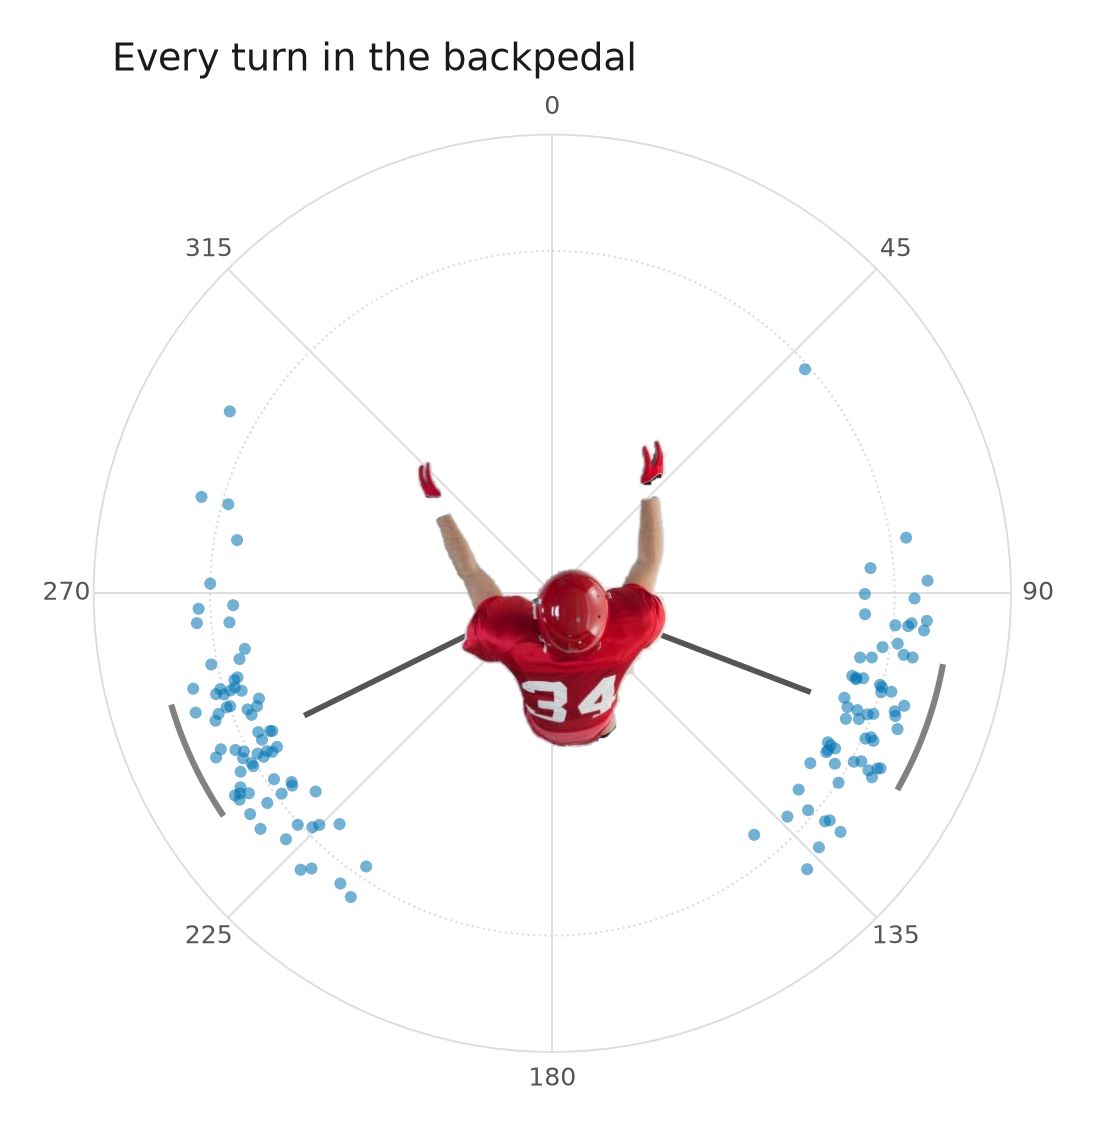
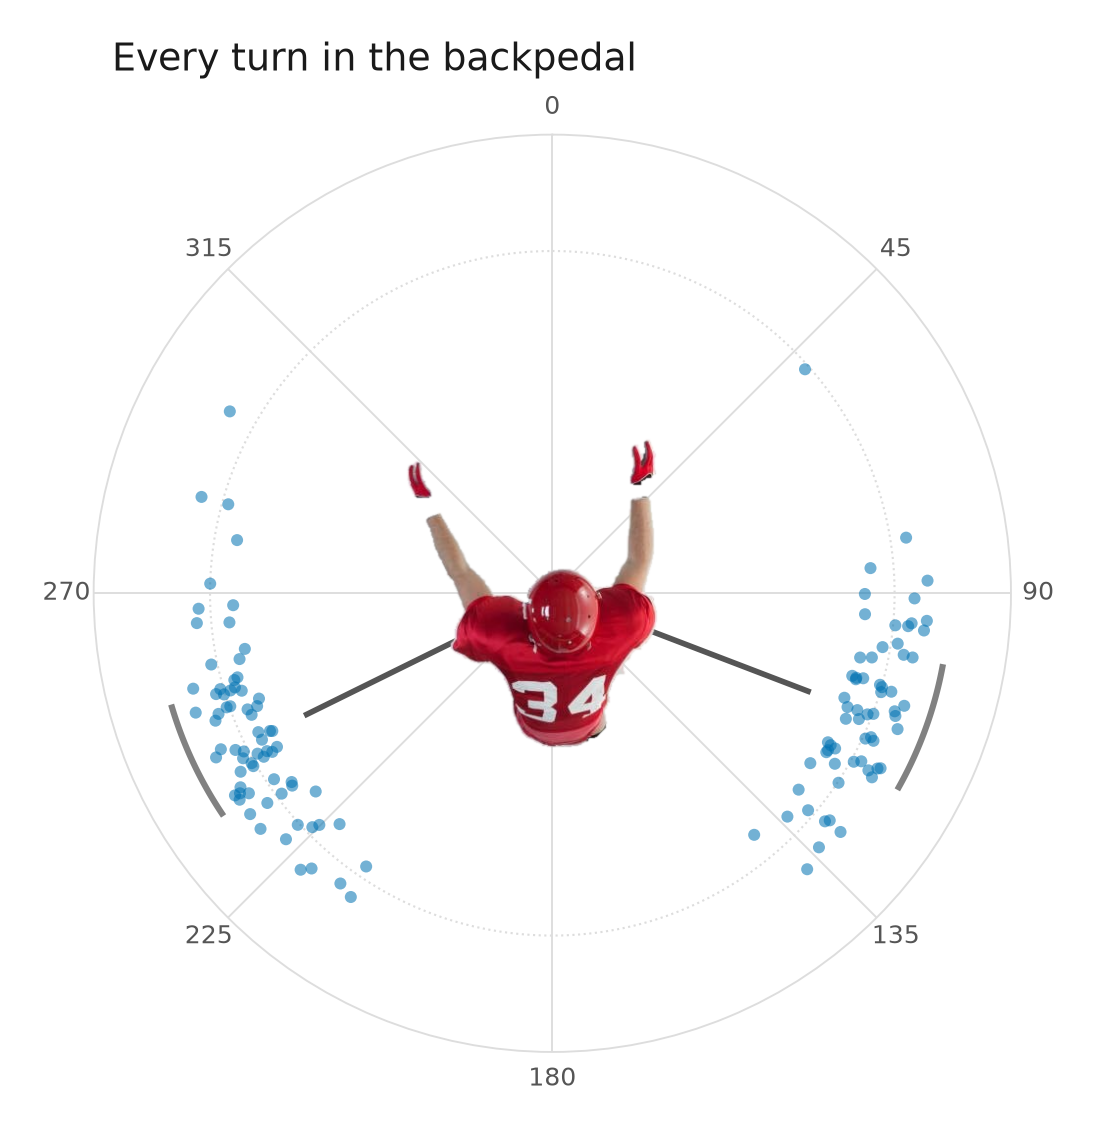
Figure 21 — the marker ten more pixels left (total -20 px) (D221)
Amends D220. Conor, 2026-11-24 17:46: "10 more pixels" — another 10 px
left on top of D220's 10, so BACKPEDAL_POLAR_MARKER_OFFSET_PX_X = -20.0.
The constant holds the total, not an increment; placement logic untouched.
Conversion through the same 917.32 px square axes box:
axes_fraction_x = -0.0218026, radial_x = -0.0584311.

Measured off the saved PNG against the f830ac0 zero-offset baseline:
centroid x 576.431 -> 556.438, dx = -19.994 px, dy = +0.007 px; bbox left
edge 428 -> 408. Canvas still 1096 x 1134, so the tight crop did not move.
Left corners now 0.6323 radial units (+0.05 margin = 0.6823) against
min(radius_drawn) = 0.9017: 0.2194 radial units of air — no clipping.

Tests: the paired saved-PNG shift test is retargeted to |dx + 20| < 1 px
and pins the constant to -20.0 (so it cannot pass against a silently
changed constant); the sidecar test pins px_x = -20.0, measured shift and
left-corner reach. fig21 tests 27/27; full suite 758 collected, 757
passed, 1 skipped, 0 failed.

CSV byte-identical (f186ebbc...); strings, manifest and every other
figure's PNG unchanged; two renders byte-identical (PNG 3d244edb...).

Changed region(s): [[0.3723, 0.3704, 0.6204, 0.679]]

diff --git a/tests/test_backpedal_polar_figure.py b/tests/test_backpedal_polar_figure.py
@@ -350,8 +350,9 @@ def test_the_overhead_player_is_the_supplied_image_at_the_centre(polar, cfg):
     origin, drawn above the lobe spokes and below the turns, with its own
     aspect ratio preserved — so the subject is not stretched into the circle.
     D220 then moved him 10 saved px left on Conor's instruction (2026-11-24
-    16:25), so the centre is deliberately off the exact origin; the test now
-    asserts the offset he should have instead of a centred glyph.
+    16:25) and D221 another 10 (17:46, "10 more pixels"), so the centre is
+    deliberately 20 px off the exact origin; the test now asserts the offset
+    he should have instead of a centred glyph.
     """
     table, context = polar
     fig = figures.plot_backpedal_polar(table, context, cfg)
@@ -490,9 +491,9 @@ def test_the_player_marker_is_a_schematic_not_data(cfg, tmp_path):
         plt.close("all")
 
 
-def test_the_marker_moves_ten_pixels_left_in_the_saved_png(
+def test_the_marker_moves_twenty_pixels_left_in_the_saved_png(
         polar, cfg, tmp_path, monkeypatch):
-    """D220: Conor, 2026-11-24 16:25: "Could you move him 10 pixels to the left".
+    """D220 + D221: "Could you move him 10 pixels to the left", then "10 more".
 
     Measured in the SAVED file, not read off the constant. The save uses
     ``bbox_inches="tight"``, so the honest proof is a paired render: the same
@@ -500,10 +501,14 @@ def test_the_marker_moves_ten_pixels_left_in_the_saved_png(
     rendered through the real save path, then the jersey's red footprint
     centroid compared in PNG pixels. If the tight crop absorbed the nudge the
     difference would be smaller than the constant; if it exaggerated it,
-    larger. It must be 10 px, within a pixel, in x only.
+    larger. It must be 20 px in total (D221 adds 10 to D220's 10), within a
+    pixel, in x only.
     """
     table, context = polar
     offset_px = figures.BACKPEDAL_POLAR_MARKER_OFFSET_PX_X
+    # pinned, so the pixel pair below cannot pass against a silently changed
+    # constant: it must be -20, not merely "whatever the constant says"
+    assert offset_px == pytest.approx(-20.0), offset_px
     centroids = {}
     sizes = {}
     for name in ("shifted.png", "unshifted.png"):
@@ -515,7 +520,7 @@ def test_the_marker_moves_ten_pixels_left_in_the_saved_png(
         footprint = figures.backpedal_polar_red_footprint(out)
         centroids[name] = footprint["centroid_px"]
         sizes[name] = footprint["png_size_px"]
-    # the crop itself must not move, or "10 px in the file" is not measurable
+    # the crop itself must not move, or "20 px in the file" is not measurable
     assert sizes["shifted.png"] == sizes["unshifted.png"]
     dx = centroids["shifted.png"][0] - centroids["unshifted.png"][0]
     dy = centroids["shifted.png"][1] - centroids["unshifted.png"][1]
@@ -523,7 +528,7 @@ def test_the_marker_moves_ten_pixels_left_in_the_saved_png(
           f"{centroids['unshifted.png'][0]:.3f}, shifted x = "
           f"{centroids['shifted.png'][0]:.3f}, dx = {dx:.3f} px, "
           f"dy = {dy:.3f} px")
-    assert dx == pytest.approx(offset_px, abs=1.0)
+    assert dx == pytest.approx(-20.0, abs=1.0), dx
     assert abs(dy) < 1.0, dy
 
 
@@ -786,7 +791,7 @@ def test_committed_drawn_text_dump_matches_the_spec():
 
 
 def test_sidecar_records_the_offset_and_the_measured_displacement():
-    """D220: the sidecar states the constant AND the shift it actually caused.
+    """D220 + D221: the sidecar states the constant AND the shift it caused.
 
     The displacement is re-measured here from the committed PNG against the
     committed pre-shift baseline, so the number in the sidecar is checked
@@ -796,17 +801,17 @@ def test_sidecar_records_the_offset_and_the_measured_displacement():
         (FIGS / f"{FIGURE}.drawn_text.json").read_text(encoding="utf-8"))
     offset = payload["marker_offset"]
     assert offset["px_x"] == figures.BACKPEDAL_POLAR_MARKER_OFFSET_PX_X
-    assert offset["px_x"] == pytest.approx(-10.0)
+    assert offset["px_x"] == pytest.approx(-20.0)
     assert offset["axes_fraction_x"] < 0.0
     assert offset["radial_x"] < 0.0
     assert offset["marker_centre_axes_xy"][0] == pytest.approx(
         0.5 + offset["axes_fraction_x"])
     measured = offset["measured_shift_px"]
-    assert measured[0] == pytest.approx(-10.0, abs=1.0), measured
+    assert measured[0] == pytest.approx(-20.0, abs=1.0), measured
     assert abs(measured[1]) < 1.0, measured
     # the reach the clearance test measures, stated in the sidecar too
     assert offset["left_corner_radial_from_origin"] == pytest.approx(
-        0.6127, abs=5e-4)
+        0.6323, abs=5e-4)
     again = figures.backpedal_polar_measured_shift(
         FIGS / f"{FIGURE}.png")["measured_shift_px"]
     assert measured == pytest.approx(again, abs=1e-9)

diff --git a/src/bdb27/figures.py b/src/bdb27/figures.py
@@ -12001,7 +12001,9 @@ BACKPEDAL_POLAR_MARKER_ALPHA = 1.0      # full strength inside the masked subjec
 BACKPEDAL_POLAR_MARKER_COLOUR_MODE = "original"
 BACKPEDAL_POLAR_MARKER_ZORDER = 2.5     # above the lobe spokes, under the turns
 #: D220: the nudge Conor asked for. Conor, 2026-11-24 16:25, verbatim:
-#: "Could you move him 10 pixels to the left". The units are the SAVED PNG's
+#: "Could you move him 10 pixels to the left", then 2026-11-24 17:46, verbatim:
+#: "10 more pixels" — so the total is 20 px left (D221 amends D220; the
+#: constant is the total, not an increment). The units are the SAVED PNG's
 #: pixels at ``BACKPEDAL_POLAR_DPI`` — the file he looks at — not figure-canvas
 #: pixels: `render_backpedal_polar` saves with ``bbox_inches="tight"``, so a
 #: canvas offset only survives as a file offset while the crop is unchanged.
@@ -12010,7 +12012,7 @@ BACKPEDAL_POLAR_MARKER_ZORDER = 2.5     # above the lobe spokes, under the turns
 #: measures the shift in the PNG rather than trusting this constant. Negative x
 #: is left. Nothing else about the marker changes: same image, colours,
 #: rotation, size, masking, strings and CSV.
-BACKPEDAL_POLAR_MARKER_OFFSET_PX_X = -10.0
+BACKPEDAL_POLAR_MARKER_OFFSET_PX_X = -20.0
 #: The pre-shift reference the sidecar measures against: the red-footprint
 #: centroid and PNG size of the f830ac0 render (D219's PNG), measured off that
 #: file, not estimated. The sidecar reports "measured_shift_px" = this render's
@@ -12241,7 +12243,7 @@ def _backpedal_polar_marker_metadata() -> dict:
 
 
 def backpedal_polar_marker_offset_metadata(fig) -> dict:
-    """D220's nudge in saved pixels, axes fraction and radial units.
+    """D220/D221's nudge in saved pixels, axes fraction and radial units.
 
     Printed so the sidecar states the constant that was applied and the
     conversion it went through, in the same units the figure is drawn in. The
@@ -12277,7 +12279,8 @@ def backpedal_polar_marker_offset_metadata(fig) -> dict:
         "deliberate_off_centre": (
             f"the marker is {abs(BACKPEDAL_POLAR_MARKER_OFFSET_PX_X):g} saved "
             "px left of the polar origin because Conor asked for it "
-            "(2026-11-24 16:25); nothing else is centred on it"),
+            "(2026-11-24 16:25, then 17:46: '10 more pixels'); nothing else "
+            "is centred on it"),
     }
 
 
@@ -12446,9 +12449,10 @@ def _draw_backpedal_polar_player(ax, fig, table: pd.DataFrame):
     half_height = BACKPEDAL_POLAR_MARKER_HALF_HEIGHT
     half_width = half_height * pixels_wide / pixels_high
     fraction_x, fraction_y = _polar_axes_fraction_per_unit(ax, fig)
-    # D220: the nudge, converted from saved PNG pixels to axes fraction. Both
-    # corners on the left move outward by the shift, so the clearance check is
-    # run on the left corner's real reach, not on the unshifted one.
+    # D220/D221: the nudge, converted from saved PNG pixels to axes fraction
+    # (the constant is the total: 10 px at D220, ten more at D221 = 20 px).
+    # Both corners on the left move outward by the shift, so the clearance
+    # check is run on the left corner's real reach, not on the unshifted one.
     offset_fraction_x = (
         BACKPEDAL_POLAR_MARKER_OFFSET_PX_X
         / _backpedal_polar_axes_px(ax, fig)[0])

diff --git a/notes/decisions.md b/notes/decisions.md
@@ -9937,3 +9937,72 @@ and `git status` lists no other PNG as changed.
 
 **Deliberately not done.** No change to the image, mask, rotation, size, zorder, colour path, CSV,
 strings, manifest payload, `TASK.md`, or any other figure.
+
+## D221 — Figure 21: the marker ten more pixels to the left (total −20) · 2026-11-24
+
+**Amends D220.** Conor, 2026-11-24 17:46, verbatim: *"10 more pixels"*. Read as: another 10 px to
+the left on top of D220's 10, i.e. 20 px total. Nothing else changes — same image, same colours,
+same −90° rotation, same size, same masking, same strings, same CSV.
+
+**The constant holds the total.** `BACKPEDAL_POLAR_MARKER_OFFSET_PX_X` is `-20.0`, not an
+increment — it is one number describing where the marker sits, and its comment records both requests
+(16:25 and 17:46) so the second does not look like a rounding change. The placement logic is
+untouched: the same conversion of saved-PNG pixels through the 917.32 px square axes box
+(`_backpedal_polar_axes_px`) gives `axes_fraction_x = -0.0218026` and `radial_x = -0.0584311`
+(was `-0.0109013` / `-0.0292155`).
+
+**The crop still does not move.** The PNG is **1096 × 1134**, exactly D220's canvas, so one canvas
+pixel is still one saved pixel and the constant's units still hold. That is confirmed by the
+measurement below, not inferred from the constant.
+
+**Measured in the saved file.** Red-footprint centroid (`R > 0.35`, `R − max(G, B) > 0.10`, the
+same predicate as the no-red-outside test) against the committed f830ac0 baseline
+(`fixtures/fig_backpedal_polar_shift_baseline.json`, centroid x `576.431`): **before x =
+576.431 px, after x = 556.438 px, dx = −19.994 px, dy = +0.007 px**; the footprint's left edge
+moves 428 → 408 px, exactly the 20 asked for. Red pixel count 24,379, unchanged from D220 (an
+integer 10 px nudge resamples nothing new — both offsets are whole saved pixels).
+
+**Test target moved with the request, and is pinned.** `test_the_marker_moves_twenty_pixels_left_in_the_saved_png`
+renders the figure twice through the real save path — at the committed constant and with it
+monkeypatched to 0 — requires both canvases the same size and **|dx + 20| < 1 px**, and now asserts
+the constant is `-20.0` outright, so the paired pixel test cannot pass against a silently changed
+constant. The sidecar test pins `px_x == -20.0` and `measured_shift_px[0] ≈ -20.0` against the
+baseline.
+
+**Clearance re-asserted on the side that moved, and there is plenty.** The left corners now reach
+**0.6323 radial units** (was 0.6127), so with the 0.05 margin they sit at **0.6823** against
+`min(radius_drawn) = 0.9017` — **0.2194 radial units of air**, no clipping of the leftmost dots and
+no shrinking of the marker. The right corners are at 0.5587. The in-drawing clearance check uses
+the shifted corner and would have raised had the marker approached a dot;
+`test_the_marker_stays_clear_of_every_drawn_turn` still measures the transform chain and names the
+left side.
+
+**Sidecar.** `fig_backpedal_polar.drawn_text.json`'s `marker_offset` block moves to `px_x: -20.0`,
+`axes_fraction_x: -0.021802642…`, `radial_x: -0.058431082…`,
+`left_corner_radial_from_origin: 0.632340…`, `marker_centre_axes_xy[0]: 0.478197…`, and
+`measured_shift_px: [-19.9936, 0.0074]`. Every other block (marker identity, mask threshold, strings,
+provenance, stamp, `config_sha`) is unchanged.
+
[1 lines of base64/hex data omitted]
+two independent stage renders are byte-identical to it. **34,661 of 1,242,864 pixels differ** from
+D220's PNG, all inside rows 438–747 × cols 406–667 — the marker's own box. No tick label, title,
+ring, dot, spoke or arc pixel moved.
+
+**The data did not move.** `fig_backpedal_polar.csv` is **byte-identical**
[1 lines of base64/hex data omitted]
+n = 63, counter-clockwise 243.7° n = 70). On-canvas strings unchanged: `Every turn in the
+backpedal`, `0`, `45`, `90`, `135`, `180`, `225`, `270`, `315`. The manifest entry is untouched (the
+offset block lives in the drawn-text sidecar), and every other figure's PNG is byte-identical
+(sha256 comparison across the whole committed figure set).
+
+**How the artefacts were regenerated.** Same procedure as D220 and the same known gap: the
+committed figure set is a mixed-provenance set from the 2026-11-16 full run, and
+`06_figures.py --mode sample` on this host does not reproduce it (the full-run intermediates are
+gitignored and absent), so a stage run rewrites other figures as PLACEHOLDER_SAMPLE. The stage was
+run for figure 21's three artefacts only and everything else was reverted; figure 21's outputs are
+sample-mode by design, like D218/D219/D220.
+
+**Tests.** `tests/test_backpedal_polar_figure.py`: **27/27 green**. Full suite: **758 collected, 757 passed, 1 skipped, 0 failed** in 18 m 15 s (the skip is the pre-existing `tests/test_turn_context.py` local-artefact skip: the per-turn parquet is gitignored and not on this machine).
+
+**Deliberately not done.** No change to the image, mask, rotation, size, zorder, colour path, CSV,
+strings, manifest payload, `TASK.md`, placement logic, or any other figure.

diff --git a/notes/backpedal-polar-figure-spec.md b/notes/backpedal-polar-figure-spec.md
@@ -352,3 +352,25 @@ colours, same −90° rotation, same size, same masking, same strings, same CSV.
 - **Unchanged.** On-canvas strings (`Every turn in the backpedal`, `0` … `315`), the mask and its
   threshold, crop, rotation, half-extents, zorder, CSV (byte-identical `f186ebbc…`,
   111.0° n = 63 / 243.7° n = 70), the manifest entry, and every other committed artefact.
+
+## Revision — twenty pixels to the left (D221, 2026-11-24)
+
+Amends D220. Conor: *"10 more pixels"* — another 10 px left on top of D220's 10, so the total is
+**20 px**. Same image, colours, −90° rotation, size, masking, strings, CSV; nothing else changes.
+The constant holds the **total**, not an increment: `BACKPEDAL_POLAR_MARKER_OFFSET_PX_X = -20.0`.
+
+- **Conversion.** Saved-PNG pixels at 170 dpi through the same square 917.32 px axes box:
+  `axes_fraction_x = -0.0218026`, `radial_x = -0.0584311`.
+- **The crop still does not move.** Canvas 1096 × 1134, exactly the D220/f830ac0 size, so one
+  canvas pixel is still one file pixel.
+- **Measured, not asserted.** Red-footprint centroid in the saved PNG: **576.431 → 556.438 px,
+  dx = −19.994 px, dy = +0.007 px** against the f830ac0 baseline (`fixtures/…_shift_baseline.json`);
+  bbox left edge 428 → 408 px. The paired test renders at offset 0 and at the committed constant
+  through the real save path and requires |dx + 20| < 1 px, with the constant pinned to −20.0 so a
+  silent change cannot pass.
+- **Clearance re-asserted on the left.** Left corners now reach **0.6323 radial units**
+  (+ 0.05 margin = 0.6823) against `min(radius_drawn) = 0.9017`: **0.2194 radial units of air** —
+  no clipping, no crowding of the leftmost dots. Right corners reach 0.5587.
+- **Unchanged.** `fig_backpedal_polar.csv` byte-identical (`f186ebbc…`), strings unchanged
+  (`Every turn in the backpedal`, `0` … `315`), manifest entry untouched, every other figure's PNG
+  byte-identical, two renders byte-identical (PNG `3d244edb…`).
